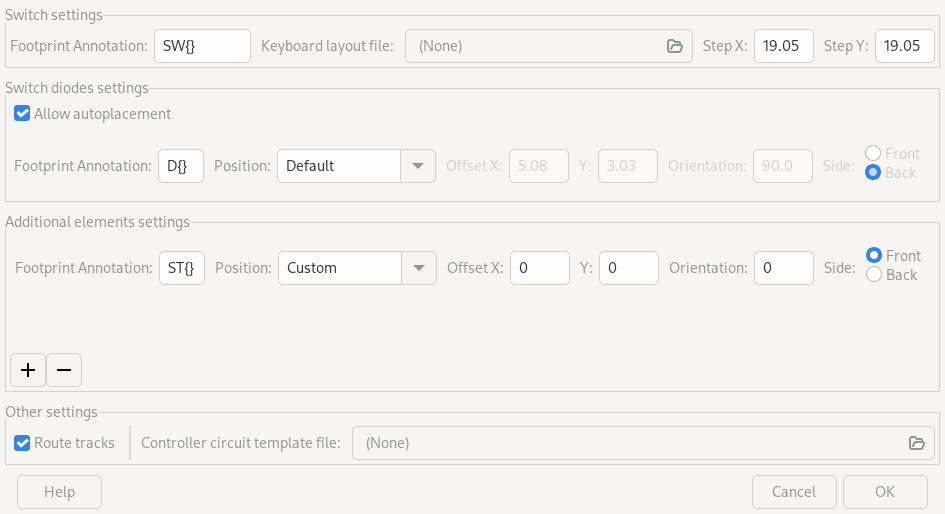
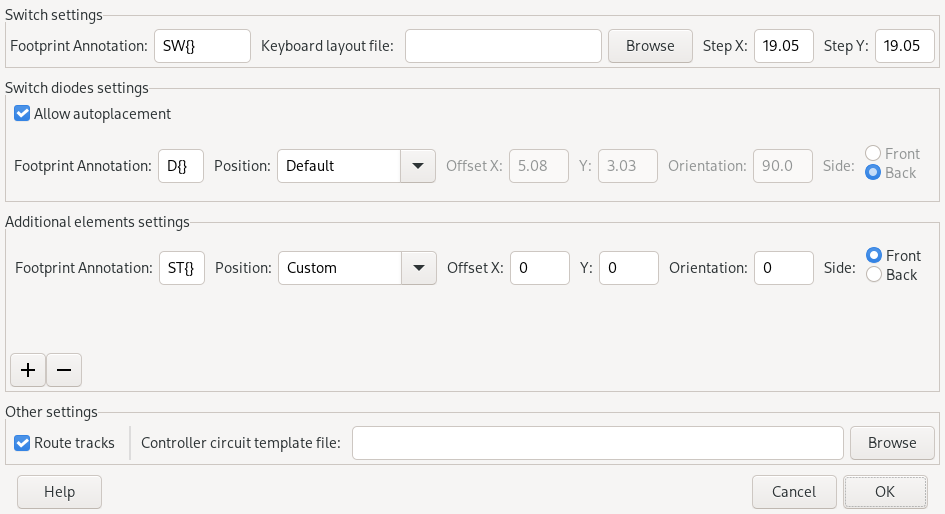
Change style of file picker
Use `wx.FLP_USE_TEXTCTRL` for all file pickers. It provides more
consistent appearance across all platforms and allows to copy-paste
paths. It also allows to clear selected file which on GTK with native
widget was not possible (selection can be replaced but can't be
removed because file dialog forces to select something and clicking
'cancel' does not clear current selection).

diff --git a/kbplacer/kbplacer_dialog.py b/kbplacer/kbplacer_dialog.py
@@ -389,14 +389,26 @@ class KbplacerDialog(wx.Dialog):
 
         self.SetSizerAndFit(box)
 
+    def __get_file_picker(self, *args, **kwargs):
+        file_picker = wx.FilePickerCtrl(*args, **kwargs)
+        file_picker.SetTextCtrlGrowable(True)
+        file_picker.Bind(
+            wx.EVT_FILEPICKER_CHANGED,
+            lambda _: file_picker.GetTextCtrl().SetInsertionPointEnd(),
+        )
+        return file_picker
+
     def get_switch_section(self):
         key_annotation = LabeledTextCtrl(
             self, wx_("Footprint Annotation") + ":", "SW{}"
         )
 
         layout_label = wx.StaticText(self, -1, self._("Keyboard layout file:"))
-        layout_file_picker = wx.FilePickerCtrl(
-            self, -1, wildcard="JSON files (*.json)|*.json|All files (*)|*"
+        layout_picker = self.__get_file_picker(
+            self,
+            -1,
+            wildcard="JSON files (*.json)|*.json|All files (*)|*",
+            style=wx.FLP_USE_TEXTCTRL,
         )
 
         key_distance_x = LabeledTextCtrl(
@@ -410,12 +422,12 @@ class KbplacerDialog(wx.Dialog):
         sizer = wx.StaticBoxSizer(box, wx.HORIZONTAL)
         sizer.Add(key_annotation, 0, wx.EXPAND | wx.LEFT | wx.RIGHT, 5)
         sizer.Add(layout_label, 0, wx.LEFT | wx.RIGHT | wx.ALIGN_CENTER_VERTICAL, 5)
-        sizer.Add(layout_file_picker, 1, wx.ALL, 5)
+        sizer.Add(layout_picker, 1, wx.ALL, 5)
         sizer.Add(key_distance_x, 0, wx.EXPAND | wx.LEFT | wx.RIGHT, 5)
         sizer.Add(key_distance_y, 0, wx.EXPAND | wx.LEFT | wx.RIGHT, 5)
 
         self.__key_annotation_format = key_annotation.text
-        self.__layout_file_picker = layout_file_picker
+        self.__layout_picker = layout_picker
         self.__key_distance_x = key_distance_x.text
         self.__key_distance_y = key_distance_y.text
 
@@ -517,10 +529,11 @@ class KbplacerDialog(wx.Dialog):
         template_label = wx.StaticText(
             self, -1, self._("Controller circuit template file:")
         )
-        template_file_picker = wx.FilePickerCtrl(
+        template_picker = self.__get_file_picker(
             self,
             -1,
             wildcard="KiCad printed circuit board files (*.kicad_pcb)|*.kicad_pcb",
+            style=wx.FLP_USE_TEXTCTRL,
         )
 
         box = wx.StaticBox(self, label=self._("Other settings"))
@@ -529,10 +542,10 @@ class KbplacerDialog(wx.Dialog):
         sizer.Add(tracks_checkbox, 0, wx.EXPAND | wx.ALL, 5)
         sizer.Add(wx.StaticLine(self, style=wx.LI_VERTICAL), 0, wx.EXPAND | wx.ALL, 5)
         sizer.Add(template_label, 0, wx.LEFT | wx.RIGHT | wx.ALIGN_CENTER_VERTICAL, 5)
-        sizer.Add(template_file_picker, 1, wx.EXPAND | wx.ALL, 5)
+        sizer.Add(template_picker, 1, wx.EXPAND | wx.ALL, 5)
 
         self.__tracks_checkbox = tracks_checkbox
-        self.__template_file_picker = template_file_picker
+        self.__template_picker = template_picker
 
         return sizer
 
@@ -543,7 +556,7 @@ class KbplacerDialog(wx.Dialog):
         help_dialog.Destroy()
 
     def get_layout_path(self) -> str:
-        return self.__layout_file_picker.GetPath()
+        return self.__layout_picker.GetPath()
 
     def get_key_annotation_format(self) -> str:
         return self.__key_annotation_format.GetValue()
@@ -557,7 +570,7 @@ class KbplacerDialog(wx.Dialog):
         return x, y
 
     def get_template_path(self) -> str:
-        return self.__template_file_picker.GetPath()
+        return self.__template_picker.GetPath()
 
     def get_diode_position_info(
         self,
